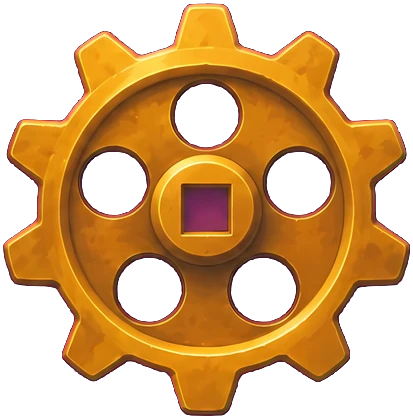
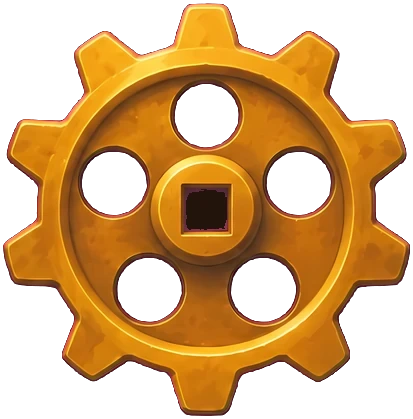
La cadena pasa por detrás del piñón del torno
Claude-Session: https://claude.ai/code/session_01P2aoMnWqG1wVvEnthTsjgU

Changed region(s): [[0.4358, 0.4344, 0.5521, 0.5585]]

diff --git a/index.html b/index.html
@@ -324,7 +324,7 @@ function buildWorld() {
         const yW = top + s.mv.ay + 2.7; R.localClippingEnabled = true; hang(s.mv.ay + 3.2, yW); s.spr = [];
         [x0 - 0.32, x1 + 0.32].forEach(x => { let yb = 0; solids.forEach(q => { if (q !== s && !q.mv && !q.spring && q.x1 - q.x0 > 0.9 && x > q.x0 + 0.25 && x < q.x1 - 0.25 && q.y1 < top - 0.3 && q.y1 > yb) yb = q.y1; }); sup.add(postB(x, yb, yW + 0.62, -1.2, 0xd0c4ba)); });
         const tr = beamBox(w + 1.5, 0.42, 0.8); tr.position.set(cx, yW + 0.82, -1.0); sup.add(tr);
-        dxs.forEach((dx, i) => { const im = TEX.l_torno.image, wT = 1.0, hT = wT * (im ? im.height / im.width : 0.8), hs = uvPlane('l_torno', wT, hT, 0, 1, 0, 1); hs.position.set(cx + dx, yW + 0.61 - hT / 2, -0.17); sup.add(hs); const sp = uvPlane('l_pinon', 0.78, 0.78, 0, 1, 0, 1); sp.position.set(cx + dx, yW + 0.61 - hT * 0.52, -0.14); sup.add(sp); s.spr.push(sp); }); return; }
+        dxs.forEach((dx, i) => { const im = TEX.l_torno.image, wT = 1.0, hT = wT * (im ? im.height / im.width : 0.8), hs = uvPlane('l_torno', wT, hT, 0, 1, 0, 1); hs.position.set(cx + dx, yW + 0.61 - hT / 2, -0.17); sup.add(hs); const sp = uvPlane('l_pinon', 0.78, 0.78, 0, 1, 0, 1); sp.position.set(cx + dx, yW + 0.61 - hT * 0.52, -0.07); sup.add(sp); s.spr.push(sp); }); return; }
       xs.forEach(x => { let yb = 0; solids.forEach(q => { if (q !== s && !q.mv && !q.spring && q.x1 - q.x0 > 0.9 && x > q.x0 + 0.25 && x < q.x1 - 0.25 && q.y1 < top - 0.6 && q.y1 > yb) yb = q.y1; }); if (under - yb > 1.7) { const im = TEX.b_cartela.image, hc = 1.15, br = uvPlane('b_cartela', hc * (im ? im.width / im.height : 1.2), hc, 0, 1, 0, 1, 0xe2d6cc); br.position.set(x, under - hc / 2 + 0.02, zs); sup.add(br); sup.add(postB(x, yb, under - hc + 0.06, zs - 0.004, 0xe2d6cc, true)); } else sup.add(postB(x, yb, under, zs, 0xe2d6cc)); }); };
     solids.push(s); return s; };
   const shelf = (x0, x1, top, crumble) => { if (x1 < 9e9) return shelfB(x0, x1, top, crumble); const w = x1 - x0, g = new THREE.Group(), b = woodBox(w, 0.3, 1.9, crumble ? 0xb9a58c : 0xffffff, 2.6); g.add(b);
